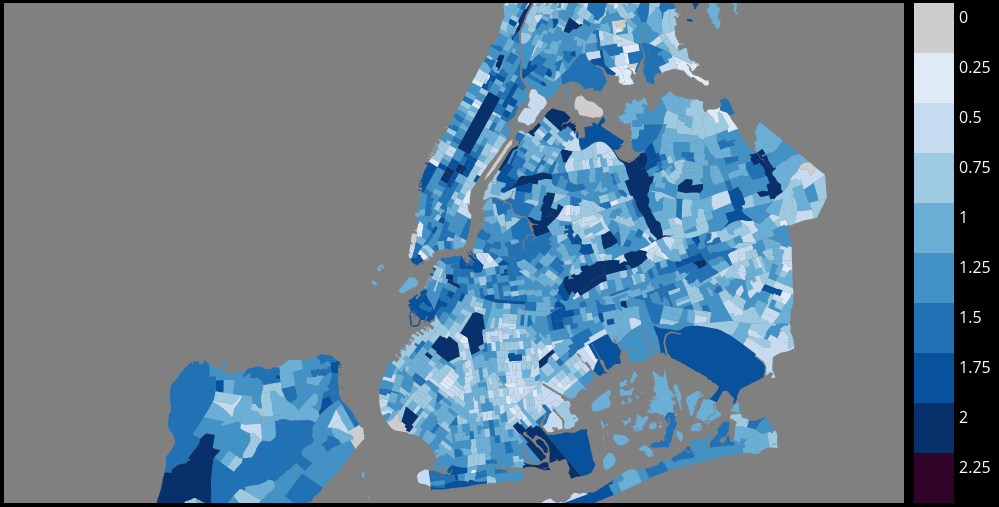
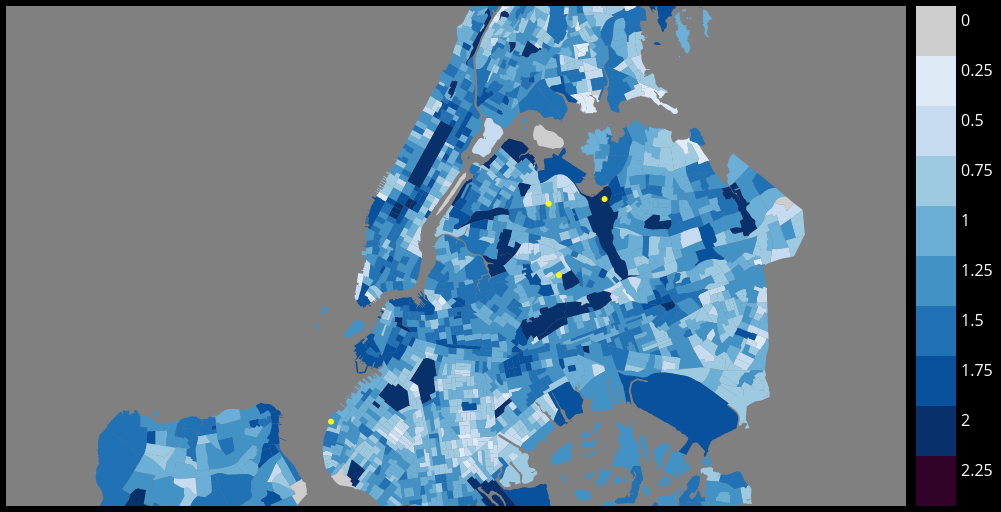
added some map screenshots

diff --git a/writeup/index.html b/writeup/index.html
@@ -213,11 +213,17 @@
                 <h4>Map</h4>
                 <p>
                     After the user interacts with the drop down options, the map will automatically be populated with a variety of related information.
-                </p><p>
+                </p>
+                <img class="img-center full-map" src="img/map/map-plain-19-white-male.png"/>
+                <p>
                     Individual census tracts will be colored to reflect the likelihood with which an individual with the selected characteristics would be stopped and frisked by an officer in relation to the average person, in the month selected on the timeline below. The darker the color, the more likely a stop, as shown by the key to the right of the map.
-                </p><p>
+                </p>
+                <img class="img-center small-map" src="img/map/map-tooltip.png"/>
+                <p>
                     Users can explore individual census tracts by hovering over them, which will bring up a tooltip explaining where the tract is, what the exact likelihood is, the average income of the tract, the number of stop and frisk complaints against NYPD for that year, and the racial distribution of the tract. They can also click to zoom in and focus on the tract.
-                </p><p>
+                </p>
+                 <img class="img-center small-map" src="img/map/map-arrests-24-black-male.png"/>    
+                <p>
                     Actual stop and frisk incidents from the NYPD database in the selected month will be displayed on the map in the form of dots. Red dots represent an arrest, and yellow dots represent an unfruitful stop and frisk. 
                 </p>
             </div>

diff --git a/writeup/css/grayscale.css b/writeup/css/grayscale.css
@@ -371,3 +371,18 @@ img::-moz-selection {
 body {
     webkit-tap-highlight-color: rgba(255,255,255,.2);
 }
+
+/* CUSTOM CHANGES */
+
+.full-map{
+    width: 700px;
+}
+
+.small-map{
+    width: 500px;
+}
+
+.img-center{
+    margin-left: auto;
+    margin-right: auto;
+}
